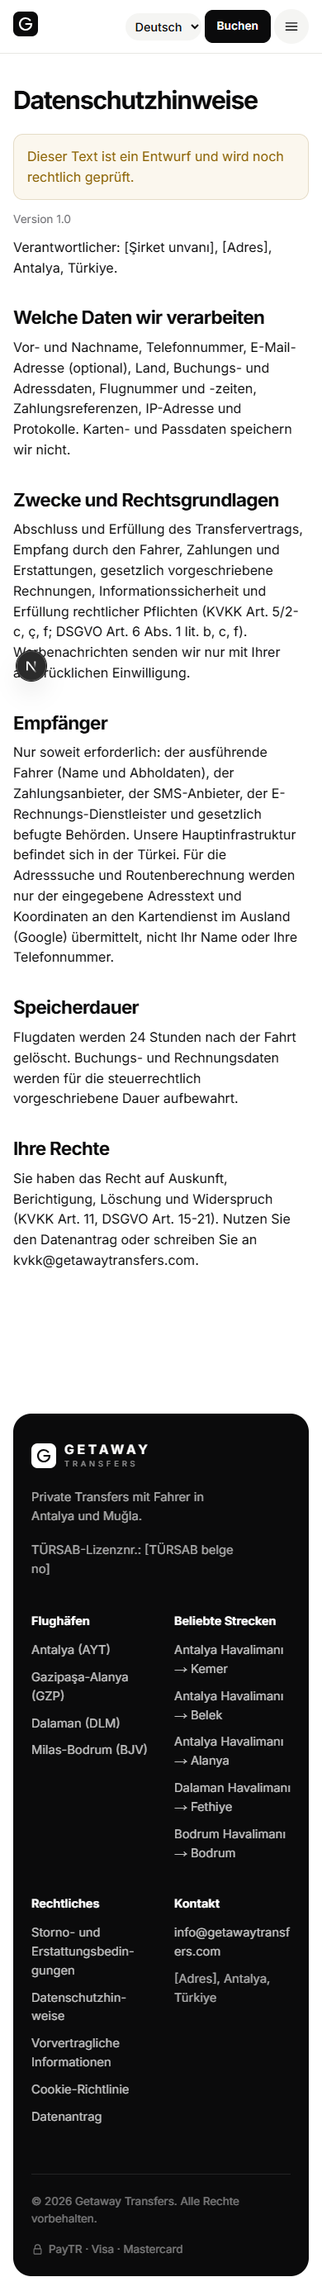
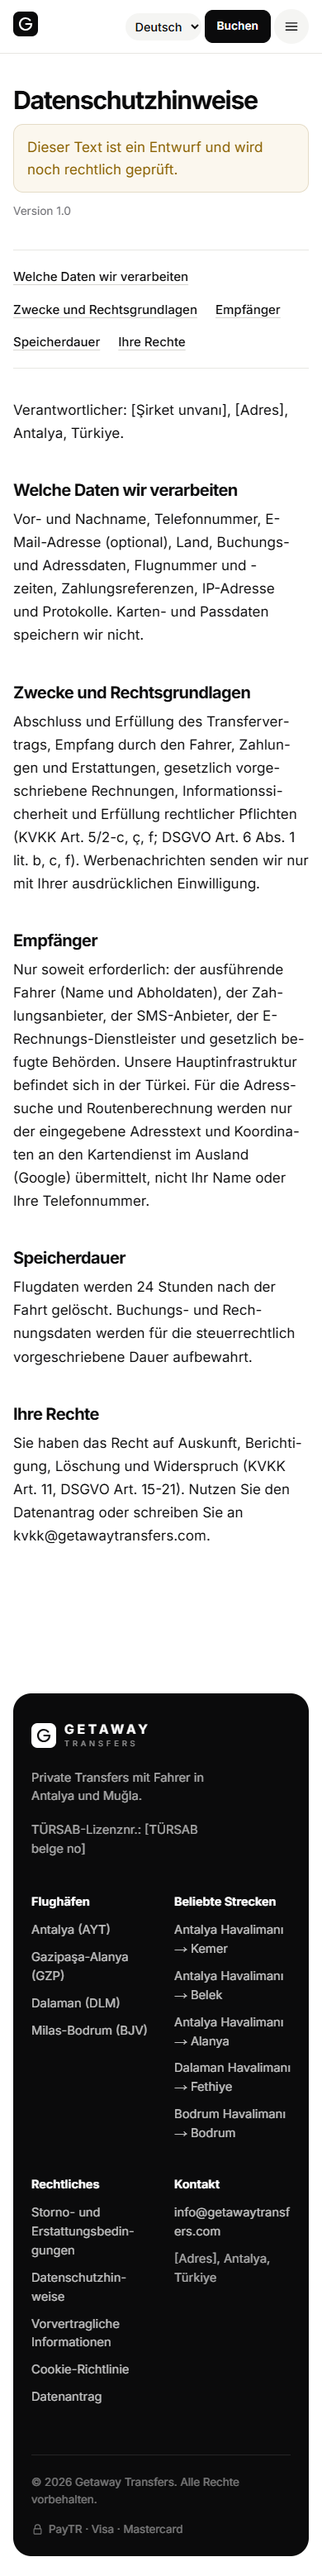
ui(web/legal): impeccable pass - e2e testleri, raporlar ve görüntüler (B-W11-15)
web/e2e/legal.spec.ts (axe, taslak notu, içerik değişmedi, 65-75ch, K-14 kademeleri,
içindekiler, baskı, 360-1440 px Almanca); docs/ui-review/web-legal.md ve
web-not-found.md, durum tabloları, değişiklik günlüğü, açık konular, test senaryoları;
after/ görüntüleri.

Changed region(s): [[0.0308, 0.0, 0.9846, 0.8974], [0.0615, 0.8356, 0.9231, 1.0], [0.8923, 0.0, 0.9231, 0.0309]]

diff --git a/web/e2e/legal.spec.ts b/web/e2e/legal.spec.ts
@@ -1,0 +1,150 @@
+import { expect, test, type Page } from "@playwright/test";
+import tr from "../messages/tr.json";
+import { company } from "../lib/site";
+import { expectNoAxeViolations } from "./a11y";
+import { warmUp } from "./session";
+
+// Yasal sayfalar (B-W11…B-W14): tek dinamik rota `legal/[slug]`. Yalnızca tipografi, okunurluk ve düzen değişir;
+// metin anahtarları ve içerik değişmez (bu dosyadaki içerik testleri bunu korur). Boş ve hata durumu yok (statik sayfa).
+
+test.describe.configure({ timeout: 60_000 });
+test.beforeAll(async ({ browser }, info) =>
+  warmUp(browser, info, [
+    "/tr/legal/cancellation",
+    "/tr/legal/privacy",
+    "/tr/legal/distance-sales",
+    "/tr/legal/cookies",
+    "/de/legal/privacy",
+  ]),
+);
+
+type Legal = typeof tr.legal;
+const PAGES = [
+  { slug: "cancellation", name: "legal cancellation", key: "cancellation", keys: ["intro", "tier1", "tier2", "tier3", "guarantee", "process", "noShow", "howTo"] },
+  {
+    slug: "privacy",
+    name: "legal privacy",
+    key: "privacy",
+    keys: ["controller", "dataTitle", "data", "purposeTitle", "purpose", "transferTitle", "transfer", "retentionTitle", "retention", "rightsTitle", "rights"],
+  },
+  { slug: "distance-sales", name: "legal distance sales", key: "distanceSales", keys: ["seller", "service", "price", "performance", "withdrawal", "complaints"] },
+  { slug: "cookies", name: "legal cookies", key: "cookies", keys: ["text", "list"] },
+] as const;
+
+/** Mesajı sayfanın kullandığı değerlerle doldurur (ICU yer tutucuları). */
+function expected(slug: string, key: keyof Legal, k: string): string {
+  const values: Record<string, string> = {
+    company: company.legalName,
+    address: company.address,
+    email: slug === "privacy" ? company.kvkkEmail : company.email,
+    tursab: company.tursabNo,
+  };
+  const raw = (tr.legal[key] as Record<string, string>)[k];
+  return raw.replace(/\{(\w+)\}/g, (_, v: string) => values[v]);
+}
+
+/** Yasal içerik (başlık, paragraf, liste öğesi); taslak notu, sürüm satırı ve içindekiler hariç. */
+const content = (page: Page) =>
+  page.locator("article.legal").locator(":is(h2, p, li):not(.alert):not(.hint):not(nav *)");
+
+for (const p of PAGES) {
+  test(`${p.name} has no axe violations`, async ({ page }) => {
+    await page.goto(`/tr/legal/${p.slug}`);
+    await expect(page.getByRole("heading", { level: 1 })).toHaveText(tr.legal[p.key].title);
+    await expectNoAxeViolations(page);
+  });
+
+  test(`${p.name} draft notice visible`, async ({ page }) => {
+    await page.goto(`/tr/legal/${p.slug}`);
+    const notice = page.locator("article.legal").getByText(tr.legal.draft, { exact: true });
+    await expect(notice).toBeVisible();
+    // Not, içerikten önce gelir (okuyan önce taslak olduğunu görür).
+    const before = await notice.evaluate((n) => {
+      const first = document.querySelector("article.legal :is(h2, p, li):not(.alert):not(.hint):not(nav *)");
+      return !!first && !!(n.compareDocumentPosition(first) & Node.DOCUMENT_POSITION_FOLLOWING);
+    });
+    expect(before).toBe(true);
+  });
+
+  test(`${p.name} content unchanged`, async ({ page }) => {
+    await page.goto(`/tr/legal/${p.slug}`);
+    const texts = (await content(page).allTextContents()).map((s) => s.trim());
+    expect(texts).toEqual(p.keys.map((k) => expected(p.slug, p.key, k)));
+  });
+
+  test(`${p.name} reading measure is 65-75ch`, async ({ page }, info) => {
+    test.skip(info.project.name !== "desktop", "Ölçü yalnızca geniş ekranda sınırlanır; telefonda ekran genişliği belirler");
+    await page.goto(`/tr/legal/${p.slug}`);
+    const ch = await content(page).first().evaluate((el) => {
+      const probe = document.createElement("span");
+      probe.textContent = "0".repeat(100);
+      probe.style.whiteSpace = "nowrap";
+      el.appendChild(probe);
+      const one = probe.getBoundingClientRect().width / 100;
+      probe.remove();
+      return el.getBoundingClientRect().width / one;
+    });
+    expect(ch).toBeGreaterThanOrEqual(65);
+    expect(ch).toBeLessThanOrEqual(75);
+  });
+}
+
+test("tiers text matches K-14 exactly", async ({ page }) => {
+  await page.goto("/tr/legal/cancellation");
+  // Üç kademe ayrı bir liste olarak okunur; metin mesajlarla birebir ve sıra değişmez.
+  const list = page.locator("article.legal").getByRole("list");
+  await expect(list).toHaveCount(1);
+  const items = list.getByRole("listitem");
+  await expect(items).toHaveText([tr.legal.cancellation.tier1, tr.legal.cancellation.tier2, tr.legal.cancellation.tier3]);
+  // K-14: 48 saat ve üzeri %100, 24–48 saat %50, 24 saatten az iade yok (%0).
+  await expect(items.nth(0)).toContainText("48 saat");
+  await expect(items.nth(0)).toContainText("%100");
+  await expect(items.nth(1)).toContainText("24 ile 48 saat");
+  await expect(items.nth(1)).toContainText("%50");
+  await expect(items.nth(2)).toContainText("24 saatten az");
+  await expect(items.nth(2)).toContainText("iade yapılmaz");
+});
+
+test("privacy has a section index with working anchors", async ({ page }) => {
+  await page.goto("/tr/legal/privacy");
+  const toc = page.getByRole("navigation", { name: tr.legal.privacy.title });
+  await expect(toc).toBeVisible();
+  const titles = ["dataTitle", "purposeTitle", "transferTitle", "retentionTitle", "rightsTitle"] as const;
+  await expect(toc.getByRole("link")).toHaveText(titles.map((k) => tr.legal.privacy[k]));
+  await toc.getByRole("link", { name: tr.legal.privacy.retentionTitle }).click();
+  await expect(page).toHaveURL(/#retention$/);
+  const heading = page.getByRole("heading", { level: 2, name: tr.legal.privacy.retentionTitle });
+  await expect(heading).toBeInViewport();
+  // Yapışkan üst bilginin altında kalmaz.
+  const [top, headerBottom] = await Promise.all([
+    heading.evaluate((h) => h.getBoundingClientRect().top),
+    page.locator(".header").evaluate((h) => h.getBoundingClientRect().bottom),
+  ]);
+  expect(top).toBeGreaterThanOrEqual(headerBottom);
+});
+
+test("legal page prints without site chrome", async ({ page }) => {
+  await page.goto("/tr/legal/privacy");
+  await page.emulateMedia({ media: "print" });
+  await expect(page.locator(".header")).toBeHidden();
+  await expect(page.locator("footer.footer")).toBeHidden();
+  await expect(page.getByRole("navigation", { name: tr.legal.privacy.title })).toBeHidden();
+  await expect(page.locator("article.legal").getByText(tr.legal.draft, { exact: true })).toBeVisible();
+  await expect(page.getByRole("heading", { level: 1 })).toBeVisible();
+});
+
+test("legal pages do not overflow at 360-1440 px in German", async ({ page }, info) => {
+  test.skip(info.project.name !== "desktop", "Genişlikler testte ayarlanır");
+  test.setTimeout(120_000);
+  for (const width of [360, 390, 768, 1024, 1440]) {
+    await page.setViewportSize({ width, height: 900 });
+    for (const p of PAGES) {
+      await page.goto(`/de/legal/${p.slug}`);
+      const { scrollWidth, innerWidth } = await page.evaluate(() => ({
+        scrollWidth: document.documentElement.scrollWidth,
+        innerWidth: window.innerWidth,
+      }));
+      expect(scrollWidth, `${p.slug} ${width}px`).toBeLessThanOrEqual(innerWidth);
+    }
+  }
+});

diff --git a/docs/ui-review/web-legal.md b/docs/ui-review/web-legal.md
@@ -1,0 +1,83 @@
+# Web yasal sayfalar (`/legal/cancellation`, `/legal/privacy`, `/legal/distance-sales`, `/legal/cookies`): Impeccable geçişi (B-W11 … B-W14)
+
+Tarih: 2026-11-03 · Dal: `ui/impeccable-pass` · Mod: **Read** · North Star: "Kıyı Yolu" (`DESIGN.md`)
+Yöntem: ⚠ DEGRADED: single-context (görev kuralı alt ajan açmayı yasaklıyor; Assessment A önce, detector kanıtı B sonra). Impeccable adımları in-thread pass; soru sorulmadı, kararlar aşağıda.
+Kapsam: dört sayfa tek dinamik rotadır (`web/app/[locale]/legal/[slug]/page.tsx`). Görev kuralı gereği yalnızca tipografi, okunurluk ve düzen değişti. **Metin anahtarları, metin, sıra ve yasal içerik değişmedi**; yeni mesaj anahtarı eklenmedi. Taslak notu ("Bu metin taslaktır ve hukuki onay bekliyor.") her sayfada içerikten önce görünür kalır.
+
+## Puanlar (sayfa başına)
+
+Read modunda uygulanamayan sezgiseller `n/a`, toplam uygulanabilir azamîye göre: 5 (hata önleme: giriş yok) ve 9 (hata kurtarma: hata durumu yok) her sayfada `n/a`; 7 (esneklik) yalnızca bölümlü uzun metinde (KVKK) puanlanır.
+
+| Sayfa | critique önce | critique sonra | axe önce | axe sonra | detector |
+|---|---|---|---|---|---|
+| `/legal/cancellation` (B-W11) | 20/28 (%71) | 24/28 (%86) | 0 | 0 | 0 |
+| `/legal/privacy` (B-W12) | 20/32 (%63) | 28/32 (%88) | 0 | 0 | 0 |
+| `/legal/distance-sales` (B-W13) | 20/28 (%71) | 23/28 (%82) | 0 | 0 | 0 |
+| `/legal/cookies` (B-W14) | 21/28 (%75) | 23/28 (%82) | 0 | 0 | 0 |
+
+audit (dört sayfa ortak): önce 15/20, sonra 18/20 (erişilebilirlik 3→4: içindekiler `nav`, kademeler `ul`, makale başlığa bağlı; tema 3→4: yalnızca tokenlar ve mantıksal özellikler; duyarlılık 3→4: 360–1440 px Almanca taşma yok, `hyphens: auto`; performans 4→4: sunucu bileşeni, istemci JS yok; uygulama bütünlüğü 2→2: başlıksız uzun metinler, "son güncelleme" tarihi verisi yok).
+
+### critique ayrıntısı (önce → sonra)
+
+| # | Sezgisel | İptal | KVKK | Mesafeli satış | Çerez | Not |
+|---|---|---|---|---|---|---|
+| 1 | Sistem durumu | 3→3 | 3→3 | 3→3 | 3→3 | Sürüm satırı ve taslak notu var; "son güncelleme" tarihi verisi yok (uydurulmadı) |
+| 2 | Gerçek dünya | 3→3 | 3→3 | 3→3 | 3→3 | Metin değişmez |
+| 3 | Kullanıcı kontrolü | 3→3 | 2→4 | 3→3 | 3→3 | KVKK: bölüme atlama ve geri dönme (çapa + tarayıcı geri) |
+| 4 | Tutarlılık | 3→4 | 3→4 | 3→4 | 3→4 | Dört sayfa aynı başlık bloğu, ölçü ve ritim; baskı düzeni |
+| 5 | Hata önleme | n/a | n/a | n/a | n/a | Giriş yok |
+| 6 | Tanıma | 2→4 | 2→4 | 2→3 | 3→3 | İptal: kademeler ayrı liste; KVKK: içindekiler; mesafeli satış: başlıksız metin (etiketler cümle içinde, metne dokunulmaz) |
+| 7 | Esneklik | n/a | 1→3 | n/a | n/a | KVKK: içindekiler + çapalar; kısa sayfalarda uygulanamaz |
+| 8 | Estetik ve sadelik | 3→4 | 3→4 | 3→4 | 3→4 | Başlık bloğu sıkı, gövde 70ch ve 1.65 satır aralığı, başlık üstü boşluğu altından açık |
+| 9 | Hata kurtarma | n/a | n/a | n/a | n/a | Hata durumu yok |
+| 10 | Yardım | 3→3 | 3→3 | 3→3 | 3→3 | İletişim e-postası metinde |
+| **Toplam** | | **20→24/28** | **20→28/32** | **20→23/28** | **21→23/28** | |
+
+KVKK toplamı: önce 20/32 (%63), sonra 28/32 (%88).
+
+## Bulgular ve durum
+
+| Öncelik | Sayfa | Bulgu | Durum |
+|---|---|---|---|
+| P1 | İptal | K-14 kademeleri diğer paragraflarla aynı görünüyor; okuyan "48 saat / 24 saat" sınırlarını taramada kaçırır | **Kapandı**: `tier1`–`tier3` tek bir `ul.legal-tiers` içinde (kireçtaşı blok, saç çizgisi ayırıcı, tabular rakam). Metin ve sıra aynı. Test: "tiers text matches K-14 exactly" |
+| P1 | KVKK | Beş bölümlü metinde içindekiler ve bölüme bağlantı yok | **Kapandı**: mevcut bölüm başlıklarından kurulan `nav` (adı sayfa başlığı; üst bilgideki "Bölümler" menüsüyle aynı adı taşımaz), `#data` … `#rights` çapaları, yapışkan üst bilgi payı (`scroll-margin-block-start`). Test: "privacy has a section index with working anchors" |
+| P2 | Tümü | Satır uzunluğu ölçülmemiş (780 px kapsayıcıya bağlı; 16 px'te ~70ch tesadüfen) | **Kapandı**: kapsayıcı `calc(70ch + 2 * gutter)`, gövde 1.0625rem / 1.65, öğeler `max-inline-size: 70ch`. Test: "… reading measure is 65-75ch" (dört sayfa) |
+| P2 | Tümü | Baskıda üst bilgi, alt bilgi ve renkli not; yasal metin yazdırılıyor/PDF'e kaydediliyor | **Kapandı**: `@media print` üst/alt bilgi ve içindekiler gizli, taslak notu kenarlı ve görünür, başlık sonrası sayfa kırılmaz. Test: "legal page prints without site chrome" |
+| P2 | Tümü | Başlık, not ve sürüm satırı ayrı ayrı yüzüyor; başlık üstü/altı boşluğu eşit | **Kapandı**: `.legal-head` 12 px yığın, gövdeye 36 px; `h2` 2.2em üst / 0.5em alt, `text-wrap: balance`, paragraf `text-wrap: pretty` |
+| P3 | Mesafeli satış | Bölüm başlığı yok; "Satıcı:", "Hizmet:" gibi etiketler cümlenin içinde | Açık: metin ve anahtar yapısı değişmez (hukukçu onaylı metin bölümlenirse başlık eklenebilir) |
+| P3 | Tümü | "Son güncelleme" tarihi yok, yalnızca "Sürüm 1.0" | Açık: tarih verisi yok, uydurulmadı |
+| P3 | Tümü | `hyphens: auto` Almancada kısaltmayı da böler ("TÜR-SAB") | Kabul: dar ekranda taşmayı önler; yasal metin değişmez |
+| P3 | İptal | Görevdeki "%0" ifadesi metinde yok; `tier3` "iade yapılmaz" diyor (anlamca %0) | Açık: metin değiştirilmez; test mesajdaki birebir metni ve "24 saatten az" + "iade yapılmaz"ı denetler |
+
+Kararlar: içindekiler yalnızca üç ve daha fazla bölüm başlığı olan metinde çizilir (bugün yalnızca KVKK); yeni anahtar gerekmesin diye adı sayfa başlığından (`aria-labelledby`) gelir. Kademe listesinde renkli kenar şeridi kullanılmadı (craft floor yasağı); durum renkleri kullanılmadı (kademe bir durum değil).
+
+## Yapılanlar (Impeccable adımları)
+
+- **typeset / layout**: ölçü, gövde boyutu, satır aralığı, başlık ritmi, başlık bloğu; kademeler listesi; içindekiler.
+- **harden**: uzun Almanca (360–1440 px testte taşma yok), `overflow-wrap`, `hyphens`; mantıksal özellikler (`margin-block`, `padding-block`, `border-block`, `max-inline-size`, `scroll-margin-block-start`): Arapça (C-W1) için yön sabit kodlanmadı. Boş ve hata durumu: `n/a` (statik sunucu sayfası, ağ çağrısı yok; bilinmeyen slug 404'e gider, `web-not-found.md`).
+- **adapt**: 360/390/768/1024/1440 px; telefonda içindekiler satır kayar, dokunma hedefi ≥ 34 px.
+- **clarify**: yapılmadı (yasal metin; görev kuralı).
+- **optimize**: sunucu bileşeni, istemci JS yok, görsel yok.
+- **animate/delight**: eklenmedi (Read, yasal metin).
+- **polish**: baskı stili, bağlantı alt çizgi rengi ve ofseti.
+
+## Değişen dosyalar
+
+`web/app/[locale]/legal/[slug]/page.tsx`, `web/app/globals.css` (`.legal`, `.legal-head`, `.legal-body`, `.legal-toc`, `.legal-tiers`, `@media print`), `web/e2e/legal.spec.ts` (yeni, 20 test; iki projede 40 koşu).
+
+## Uygulanamadı: neden
+
+- Metin içi bağlantılar (mesafeli satıştan iptal politikasına, KVKK'dan veri talep formuna): mesaj metni değişmeden yapılamaz.
+- "Son güncelleme" tarihi: veri yok.
+- `ar` (sağdan sola) görüntüsü: dil C-W1'de eklenecek; düzen yalnızca mantıksal özellik kullanır.
+
+## Doğrulama
+
+- Kırmızı (önce, `npx playwright test legal.spec not-found.spec --project=desktop --workers=1`): **7 başarısız, 20 geçti**. Yasal sayfalarda başarısız: "tiers text matches K-14 exactly" (`toHaveCount(1)`: liste yoktu), "privacy has a section index with working anchors" (`toBeVisible`: `nav` yoktu), "legal page prints without site chrome" (`toBeHidden`: üst bilgi baskıda görünüyordu). Önce de geçenler (koruma testleri): axe ×4, taslak notu ×4, içerik değişmedi ×4, ölçü ×4 (16 px Inter'de 780 px kapsayıcı tesadüfen 70ch idi; 17 px gövdeye geçince ilk denemede 65'in altına düştü ve kapsayıcı ch'ye bağlandı), Almanca taşma.
+- Sonra: `npx playwright test legal.spec not-found.spec --workers=1` (iki proje): **48 geçti, 6 atlandı** (ölçü ve taşma testleri yalnızca desktop).
+- `npx tsc --noEmit` temiz; `npx eslint` (sayfa + spec) 0; `impeccable detect` `[]`.
+
+## Görüntüler
+
+- Önce: `screenshots/before/web/{tr,de}-{1440,390}-legal-{cancellation,privacy,distance-sales,cookies}.png`
+- Sonra: `screenshots/after/web/{tr,de}-{1440,390}-legal-{cancellation,privacy,distance-sales,cookies}.png`

diff --git a/README.md b/README.md
@@ -79,10 +79,10 @@ Tek yerden özet: `docs/proje_rehberi.md`. Değişiklik kaydı: `docs/degisiklik
 | Alan | Durum |
 |---|---|
 | Backend | Tamamlandı; 94 test geçiyor. Kur TCMB'den otomatik, gidiş-dönüş %5, fiyatlar 5'in katı. Adres (Google Places, şimdilik örnek veri), ilçe bazlı fiyat (K-28), PayTR (test mağazası bekliyor) |
-| Müşteri web sitesi | Tamamlandı; 4 dil, adres arama, rezervasyon, ödeme, iptal, KVKK sayfaları, mobil uyumlu. 2026-10-31: yeni tasarım, Motion/Lenis animasyonları, 4 araçlı filo (VIP Minibüs, K-35). 2026-11-02: ana sayfa Impeccable geçişi (rota rayı "Nasıl çalışır", koyu güven şeridi, JS'siz/hareket azaltmada görünür bölümler, axe 0); rezervasyon sihirbazı geçişi (adım göstergesi yolda değişmez, alan düzeyi hatalar, ağ hatasında yeniden dene, onayda iptal kademeleri, axe 0); SMS doğrulama geçişi (duyurulan hatalar, alan adında ülke kodu, tekrar gönder sayacı, axe 0); ödeme ekranı geçişi (yükleniyor/hata/yeniden dene durumları, duyurulan ödeme reddi, kod-güzergâh-tarih özeti, açık ödemede tekrar dene yok, iptal edilmiş rezervasyon açıklaması, axe 0); rezervasyon detayı ve iptal geçişi (yükleniyor/hata/bulunamadı durumları, API'nin iade önizlemesi + K-14 kademeleri, eşit görünür "Vazgeç", klavyeyle iptal ve duyurulan sonuç, eskiyen canlı konum canlı gösterilmez (K-44), axe 0). 2026-11-03: yüzey 1 incelemesi düzeltmeleri (ağ/5xx/süre aşımında giriş formu yerine hata ve yeniden dene, 15 sn istek sınırı, ortak yoklama, ödeme sayfası açıkken oturum düşerse iFrame korunur ve yeni ödeme açılmaz (K-45), "oturumunuz sona erdi" notu); Rezervasyonlarım geçişi (kod alanında biçim ipucu ve alan hatası, boş liste durumu, axe 0); Hesabım geçişi (yükleniyor/hata durumları, kaydedilemeyen pazarlama onayı işaretli kalmaz, duyurulan kayıt, axe 0); veri talebi geçişi (önceden seçimsiz tür radyo grubu, gönderim kilidi, liste yükleniyor/hata/boş durumları, axe 0) |
+| Müşteri web sitesi | Tamamlandı; 4 dil, adres arama, rezervasyon, ödeme, iptal, KVKK sayfaları, mobil uyumlu. 2026-10-31: yeni tasarım, Motion/Lenis animasyonları, 4 araçlı filo (VIP Minibüs, K-35). 2026-11-02: ana sayfa Impeccable geçişi (rota rayı "Nasıl çalışır", koyu güven şeridi, JS'siz/hareket azaltmada görünür bölümler, axe 0); rezervasyon sihirbazı geçişi (adım göstergesi yolda değişmez, alan düzeyi hatalar, ağ hatasında yeniden dene, onayda iptal kademeleri, axe 0); SMS doğrulama geçişi (duyurulan hatalar, alan adında ülke kodu, tekrar gönder sayacı, axe 0); ödeme ekranı geçişi (yükleniyor/hata/yeniden dene durumları, duyurulan ödeme reddi, kod-güzergâh-tarih özeti, açık ödemede tekrar dene yok, iptal edilmiş rezervasyon açıklaması, axe 0); rezervasyon detayı ve iptal geçişi (yükleniyor/hata/bulunamadı durumları, API'nin iade önizlemesi + K-14 kademeleri, eşit görünür "Vazgeç", klavyeyle iptal ve duyurulan sonuç, eskiyen canlı konum canlı gösterilmez (K-44), axe 0). 2026-11-03: yüzey 1 incelemesi düzeltmeleri (ağ/5xx/süre aşımında giriş formu yerine hata ve yeniden dene, 15 sn istek sınırı, ortak yoklama, ödeme sayfası açıkken oturum düşerse iFrame korunur ve yeni ödeme açılmaz (K-45), "oturumunuz sona erdi" notu); Rezervasyonlarım geçişi (kod alanında biçim ipucu ve alan hatası, boş liste durumu, axe 0); Hesabım geçişi (yükleniyor/hata durumları, kaydedilemeyen pazarlama onayı işaretli kalmaz, duyurulan kayıt, axe 0); veri talebi geçişi (önceden seçimsiz tür radyo grubu, gönderim kilidi, liste yükleniyor/hata/boş durumları, axe 0); yasal sayfalar geçişi (70ch okuma ölçüsü, iptal kademeleri ayrı liste, KVKK metninde içindekiler, baskı stili; metin değişmedi, axe 0); 404 geçişi (Rezervasyonlarım bağlantısı, kendi sekme başlığı, axe 0) |
 | Admin paneli | Tamamlandı; 23 rota (ekran), 2FA, rol bazlı menü, parola değiştirme |
 | Mobil (müşteri + sürücü) | Tamamlandı; 2026-10-31 Uber tarzı yeni tasarım (Reanimated). Harita: telefonda `react-native-maps` gerçek harita (rezervasyon detayı ve sürücü yolculuğunda rota ve sürücü işaretçisi; Android emülatörde doğrulandı), web önizlemede SVG. Push bildirim (FCM) ve mağaza derlemesi bekliyor |
-| Ön yüz testleri | Altyapı kuruldu (K-40): web ve admin ESLint + Playwright + axe (smoke), mobil ESLint + jest-expo + RNTL, kök betik testleri, ekran görüntüsü betikleri. Lint taban ihlalleri kısmen giderildi (web 4); ekran bazlı testler arayüz taramasında yazılıyor (web ortak dosyalar B-W0: `web/e2e/shared.spec.ts`, yerel 404, odak halkası, durum bileşenleri; ana sayfa B-W1: `web/e2e/home.spec.ts`, axe 0, klavye, hareket azaltma, 360 px Almanca; rezervasyon sihirbazı B-W2: `web/e2e/book.spec.ts`, dört adımda axe 0, onay kutuları, uçuş no hatası, TRY tek satır, ağ hatası; SMS doğrulama B-W3: `web/e2e/otp.spec.ts`, yanlış kod, tekrar gönder sayacı, ülke kodu; ödeme B-W4: `web/e2e/pay.spec.ts`, yükleniyor, ödeme reddi, ağ hatası, axe 0, 360 px Almanca; ödeme sonucu B-W5: `web/e2e/payment-result.spec.ts`, bekleme durumu, iFrame'den çıkış, axe 0, 360 px Almanca; rezervasyon detayı B-W6: `web/e2e/booking-detail.spec.ts`, iptal önizlemesi, klavye, bulunamadı, canlı takip eskimesi, axe 0, 360 px Almanca) |
+| Ön yüz testleri | Altyapı kuruldu (K-40): web ve admin ESLint + Playwright + axe (smoke), mobil ESLint + jest-expo + RNTL, kök betik testleri, ekran görüntüsü betikleri. Lint taban ihlalleri kısmen giderildi (web 4); ekran bazlı testler arayüz taramasında yazılıyor (web ortak dosyalar B-W0: `web/e2e/shared.spec.ts`, yerel 404, odak halkası, durum bileşenleri; ana sayfa B-W1: `web/e2e/home.spec.ts`, axe 0, klavye, hareket azaltma, 360 px Almanca; rezervasyon sihirbazı B-W2: `web/e2e/book.spec.ts`, dört adımda axe 0, onay kutuları, uçuş no hatası, TRY tek satır, ağ hatası; SMS doğrulama B-W3: `web/e2e/otp.spec.ts`, yanlış kod, tekrar gönder sayacı, ülke kodu; ödeme B-W4: `web/e2e/pay.spec.ts`, yükleniyor, ödeme reddi, ağ hatası, axe 0, 360 px Almanca; ödeme sonucu B-W5: `web/e2e/payment-result.spec.ts`, bekleme durumu, iFrame'den çıkış, axe 0, 360 px Almanca; rezervasyon detayı B-W6: `web/e2e/booking-detail.spec.ts`, iptal önizlemesi, klavye, bulunamadı, canlı takip eskimesi, axe 0, 360 px Almanca; yasal sayfalar B-W11–14: `web/e2e/legal.spec.ts`, K-14 kademeleri birebir, içerik değişmedi, taslak notu, 65–75ch, içindekiler, baskı; 404 B-W15: `web/e2e/not-found.spec.ts`) |
 | Yasal metinler | Taslak; hukukçu onayı bekliyor (`web/lib/site.ts` içinde yer tutucular) |
 
 Araç tipleri: Minivan, VIP Van, Minibüs, VIP Minibüs (K-35). Sedan hizmetten kaldırıldı.

diff --git a/docs/ui-review/README.md b/docs/ui-review/README.md
@@ -110,6 +110,11 @@ Ortak dosya görevlerinde (`*0`) critique puanı verilmez; yalnızca detector, a
 | web/bookings (B-W8: `/bookings`, `BookingsHome`) | critique 22/40 (%55), audit 14/20, axe 0 | critique 35/40 (%88), audit 18/20, axe 0 (oturumsuz + alan hatası, liste, boş liste) | 0 | Tamamlandı (2026-11-03): kod alanında görünür biçim ipucu ve örnekli alan hatası (devre dışı düğme yerine; gönderimde odak alana), yapıştırılan "GA7K-3P9Q" temizlenir, boş liste `EmptyState` + "Yeni rezervasyon", liste `h2` + `ul`, telefonda tam genişlik düğme. `bookings.spec.ts` 8 test (360–1440 Almanca + `12.345,00 TRY` taşma yok). Açık P3: sayfalama yok (API) | `web-bookings.md`; görüntüler `screenshots/after/web/*-{bookings-anon,bookings-list}.png` |
 | web/account (B-W9: `/account`, `AccountPanel`) | critique 22/40 (%55), audit 13/20, axe 0 | critique 34/40 (%85; düzeltme turu 1), audit 18/20, axe 0 | 0 | Tamamlandı (2026-11-03; düzeltme turu 1: görünür "Kaydediliyor…" ve meşgul kutu, istemcide e-posta alan hatası): profil yüklenirken `LoadingState` (önce boş), ağ hatasında `ErrorState` + yeniden dene, onay listesi hatasında kartta hata (kutu "işaretsiz" gösterilmez), kaydedilemeyen pazarlama onayı işaretli kalmaz ve hatası onay kartında, profil ve onay kaydı `role="status"` ile duyurulur, kayıt kilidi, salt okunur telefon. KVKK: kutu önceden işaretsiz (test). `account.spec.ts` 9 test (360–1440 Almanca + 120 karakter ad). Açık P3 yok | `web-account.md`; görüntüler `screenshots/after/web/*-{account,account-anon}.png` |
 | web/data-request (B-W10: `/data-request`, `DataRequestPanel`) | critique 21/40 (%53), audit 13/20, axe 0 | critique 34/40 (%85; düzeltme turu 1), audit 18/20, axe 0 (alan hatası + liste + silme onayı) | 0 | Tamamlandı (2026-11-03; düzeltme turu 1: silme talebinde satır içi onay ve eşit görünür "Vazgeç", yeni talebe başlayınca sonuç mesajı kalkar): talep türü `select` yerine önceden seçimsiz radyo grubu (`fieldset`/`legend`) ve seçmeden gönderimde alan hatası, gönderim kilidi ("Gönderiliyor…"), duyurulan "Talebiniz alındı. Son tarih: …", "Taleplerim" bölümünde yükleniyor/hata + yeniden dene/boş durumları (liste hatası artık yutulmuyor), renkli durum rozeti, not alanında kalan karakter. `data-request.spec.ts` 7 test (360–1440 Almanca). Yasal metin değişmedi. Açık P3: hak açıklamaları (hukukçu onayı) | `web-data-request.md`; görüntüler `screenshots/after/web/*-{data-request,data-request-anon}.png` |
+| web/legal/cancellation (B-W11) | critique 20/28 (%71; 5, 7, 9 n/a), axe 0 | critique 24/28 (%86), audit 18/20 (dört yasal sayfa ortak), axe 0 | 0 | Tamamlandı (2026-11-03): K-14 kademeleri ayrı liste (metin ve sıra aynı), ortak okuma düzeni (70ch, 1.0625rem/1.65, başlık bloğu, baskı stili). `legal.spec.ts` | `web-legal.md`; görüntüler `screenshots/after/web/*-legal-cancellation.png` |
+| web/legal/privacy (B-W12) | critique 20/32 (%63; 5, 9 n/a), axe 0 | critique 28/32 (%88), axe 0 | 0 | Tamamlandı (2026-11-03): mevcut başlıklardan içindekiler (`nav`, adı sayfa başlığı) ve `#data`…`#rights` çapaları, ortak okuma düzeni; içerik değişmedi | `web-legal.md`; `*-legal-privacy.png` |
+| web/legal/distance-sales (B-W13) | critique 20/28 (%71), axe 0 | critique 23/28 (%82), axe 0 | 0 | Tamamlandı (2026-11-03): ortak okuma düzeni. Açık P3: başlıksız metin (etiketler cümle içinde; metin değişmez) | `web-legal.md`; `*-legal-distance-sales.png` |
+| web/legal/cookies (B-W14) | critique 21/28 (%75), axe 0 | critique 23/28 (%82), axe 0 | 0 | Tamamlandı (2026-11-03): ortak okuma düzeni | `web-legal.md`; `*-legal-cookies.png` |
+| web/not-found (B-W15: `app/[locale]/not-found.tsx`) | critique 22/36 (%61; 5 n/a), audit 16/20, axe 0 | critique 30/36 (%83), audit 18/20, axe 0 (iki giriş yolu) | 0 | Tamamlandı (2026-11-03): **Rezervasyonlarım** bağlantısı eklendi (ana sayfa birincil, rezervasyon), sekme başlığı "404 \| Getaway Transfers" (React 19 `<title>`; `metadata` not-found'da uygulanmıyor). `not-found.spec.ts` 7 test. Açık P2: üretim 404 kabuğu (B-W0'dan) | `web-not-found.md`; `*-{not-found,not-found-in-locale}.png` |
 
 ## 5. Yüzey 1 kapanışı (web gelir akışı, 2026-11-03)
 

diff --git a/docs/ui-review/web-not-found.md b/docs/ui-review/web-not-found.md
@@ -1,0 +1,60 @@
+# Web bulunamadı (404, `app/[locale]/not-found.tsx`): Impeccable geçişi (B-W15)
+
+Tarih: 2026-11-03 · Dal: `ui/impeccable-pass` · Mod: **Operate** (kaybolan ziyaretçiyi yola döndürmek) · North Star: "Kıyı Yolu"
+Yöntem: ⚠ DEGRADED: single-context (görev kuralı alt ajan açmayı yasaklıyor). Impeccable adımları in-thread pass; soru sorulmadı.
+Kapsam: B-W0'da kurulan yerel 404 (`[...rest]` → `notFound()`, `html[lang]`). İki giriş yolu: eşleşmeyen adres (`/tr/bu-sayfa-yok`) ve `notFound()` çağıran rota (`/tr/legal/olmayan`). Rezervasyon koduna özgü bulunamadı ekranı (`BookingNotFound`) B-W6'nındır.
+
+## Puanlar
+
+| Ölçüm | Önce | Sonra |
+|---|---|---|
+| critique (Nielsen; 5 hata önleme `n/a`: giriş yok) | **22/36 (%61)** | **30/36 (%83)** |
+| audit | 16/20 | 18/20 |
+| axe (iki giriş yolu) | 0 | **0** |
+| detector (`not-found.tsx`) | 0 | 0 |
+| lint | 0 | 0 |
+
+| # | Sezgisel | Önce | Sonra | Not |
+|---|---|---|---|---|
+| 1 | Sistem durumu | 2 | 4 | Sekme başlığı ana sayfanınkiydi ("Getaway Transfers \| Antalya ve Muğla VIP Transfer"); şimdi "404 \| Getaway Transfers" |
+| 2 | Gerçek dünya | 3 | 3 | "Aradığınız sayfa bulunamadı. Adres değişmiş ya da kaldırılmış olabilir." |
+| 3 | Kullanıcı kontrolü | 2 | 4 | Rezervasyonuna ulaşmak isteyen için yol yoktu; şimdi **Rezervasyonlarım** |
+| 4 | Tutarlılık | 3 | 3 | Site düzeni, tek birincil (lake siyah) eylem |
+| 5 | Hata önleme | n/a | n/a | Giriş yok |
+| 6 | Tanıma | 3 | 4 | Üç olası hedef görünür |
+| 7 | Esneklik | 2 | 3 | Üst bilgi menüsü + üç eylem |
+| 8 | Estetik | 3 | 3 | Değişmedi; 360 px'te düğmeler satır kayar |
+| 9 | Hata kurtarma | 2 | 3 | Ana sayfa, rezervasyonlar, yeni rezervasyon |
+| 10 | Yardım | 2 | 3 | Alt bilgide iletişim; sayfada ayrıca yardım metni yok (yeni metin eklenmedi) |
+| **Toplam** | | **22/36** | **30/36** | |
+
+## Bulgular ve durum
+
+| Öncelik | Bulgu | Durum |
+|---|---|---|
+| P1 | Kaybolan ziyaretçinin en olası hedefi (SMS/e-postadaki eski bağlantıyla gelen müşterinin rezervasyonu) 404'te yoktu | **Kapandı**: **Ana sayfaya dön** (birincil), **Rezervasyonlarım**, **Rezervasyon →**. Test: "404 offers home and bookings links" (iki giriş yolu) |
+| P2 | Sekme ve geçmişte 404 ana sayfa başlığını taşıyordu | **Kapandı**: "404 \| Getaway Transfers". `not-found.tsx`'ten `metadata` dışa aktarımı Next 15.5'te uygulanmadı (denendi, başlık değişmedi); React 19 `<title>` başa taşınır ve `document.title` 404 olur. `head`'de düzenin `<title>`'ı da kalır (ikinci sırada). Test: "404 has its own document title" |
+| P2 | Üretimde sunucu `__next_error__` kabuğu döndürür, 404 içeriği istemcide çizilir | Açık (B-W0'dan, `acik_konular.md`): Next 15 davranışı; bu görevde değişmedi |
+| P3 | `h1` yalnızca "404"; ekran okuyucuda açıklama başlık dışında | Kabul: açıklama hemen sonraki paragraf; `shared.spec.ts` `h1` "404" sözleşmesini korur |
+
+## Yapılanlar
+
+- **harden**: iki giriş yolu (`[...rest]` ve `notFound()`) testte; boş/hata durumu `n/a` (statik ekran, ağ çağrısı yok).
+- **adapt**: 360–1440 px Almanca taşma yok (test); 360 px'te ikincil düğmeler ikinci satıra kayar.
+- **clarify**: yeni metin yok; mevcut `errors.back_home`, `nav.bookings`, `nav.book` kullanıldı (4 dil).
+- **optimize / animate**: gerek yok.
+
+## Değişen dosyalar
+
+`web/app/[locale]/not-found.tsx`, `web/e2e/not-found.spec.ts` (yeni, 7 test).
+
+## Doğrulama
+
+- Kırmızı (önce, desktop): "404 offers home and bookings links" ×2 (`Rezervasyonlarım` bağlantısı yok) ve "404 has its own document title" ×2 (alınan: "Getaway Transfers \| Antalya ve Muğla VIP Transfer") başarısız; axe ×2 ve taşma geçti.
+- Sonra: `npx playwright test not-found.spec shared.spec --workers=1` iki projede 27 geçti, 1 atlandı.
+- `tsc`, `eslint` temiz; detector `[]`.
+
+## Görüntüler
+
+- Önce: `screenshots/before/` yerel 404 öncesi Next'in varsayılan sayfasıdır (B-W0 öncesi); B-W0 sonrası durum `screenshots/after/web/*-not-found.png`'nin önceki sürümündedir (git geçmişi).
+- Sonra: `screenshots/after/web/{tr,de}-{1440,390}-{not-found,not-found-in-locale}.png`

diff --git a/docs/test_senaryolari.md b/docs/test_senaryolari.md
@@ -121,6 +121,8 @@ SMS doğrulama ek kontrolleri (B-W3; `/book` Doğrulama adımı ve oturumsuz `/a
 - Ödeme sayfası açıkken backend durdurulursa (veya istek asılı kalırsa) birkaç saniye sonra "Otomatik güncelleme durdu…" ve **Durumu yenile** görünür; ödeme sayfası kapanmaz.
 - Ödeme sayfası açıkken oturum düşerse (ör. başka sekmede çıkış yapılırsa) ödeme sayfası yerinde kalır; üstünde "Oturumunuz sona erdi. Ödemeyi tamamladıysanız durumu, yeniden giriş yaptıktan sonra görürsünüz." ve **Yeniden giriş yap** çıkar. Basıp giriş yapınca yeni ödeme sayfası açılmaz: "Önceki ödemenizin sonucu denetleniyor…" ve **Ödemeye dön** görünür; ödeme onaylanınca detaya geçilir (K-45). Ödeme sayfası açık değilken oturum düşerse SMS girişi "Oturumunuz sona erdi…" notuyla gelir.
 - Hesabım (B-W9): yeni hesapta "Kampanya ve fırsat iletileri almak istiyorum." kutusu işaretsizdir. İşaretleyince "Tercihiniz kaydedildi. Kampanya iletileri açık.", kaldırınca "… kapalı." görünür; sayfa yenilenince seçim korunur. Backend kapalıyken kutuya basılırsa kutu değişmez ve onay kartında "Tercihiniz kaydedilemedi. …" çıkar. Profil yüklenirken "Hesap bilgileriniz yükleniyor…"; **Kaydet** sırasında "Kaydediliyor…", sonra "Kaydedildi.". Kutuya basınca kayıt sürerken kartta "Kaydediliyor…" görünür, kutu soluklaşır ve ikinci basış bir şey göndermez. E-posta alanına "ad-ornek.com" yazıp **Kaydet** → "E-posta adresini kontrol edin (ör. ad@ornek.com)." ve kayıt gönderilmez.
+- Yasal sayfalar (B-W11–14, `/tr/legal/cancellation`, `privacy`, `distance-sales`, `cookies`): başlığın hemen altında "Bu metin taslaktır ve hukuki onay bekliyor." ve "Sürüm 1.0". İptal sayfasında üç kademe gri bir blokta ayrı satırlar. KVKK metninde başlığın altında beş bölüm bağlantısı; birine tıklayınca bölüm başlığı üst bilginin altında görünür. Yazdır (Ctrl+P) önizlemesinde üst bilgi, alt bilgi ve bölüm bağlantıları yok, taslak notu var.
+- 404 (B-W15, `/tr/bu-sayfa-yok` veya `/tr/legal/olmayan`): "404", açıklama ve **Ana sayfaya dön**, **Rezervasyonlarım**, **Rezervasyon** bağlantıları; tarayıcı sekmesinde "404 | Getaway Transfers".
 - Veri talebi (B-W10, `/tr/data-request`): "Talep türü" altında üç seçenek görünür ve hiçbiri seçili değildir. Seçmeden **Talebi gönder** → "Talep türünü seçin." ve odak ilk seçeneğe. Bir tür seçip gönderin: düğme "Gönderiliyor…" olur, sonra "Talebiniz alındı. Son tarih: …" ve talep "Taleplerim" listesinde "Açık" rozetiyle görünür; seçim ve not temizlenir. "Verilerimin silinmesi" seçilip gönderilince önce "Silme talebini onaylayın" paneli çıkar (talep henüz gitmez): **Vazgeç** paneli kapatır, **Silme talebini gönder** talebi gönderir. Sonuç mesajı, yeni tür seçince veya nota yazınca kalkar. Talebi olmayan hesapta "Henüz bir talebiniz yok."; backend kapalıyken listede "Sunucuya ulaşılamadı…" + **Tekrar dene** (form yine kullanılabilir).
 - İnternet kesikken ödeme, detay, Rezervasyonlarım, Hesabım sayfaları SMS girişi değil "Sunucuya ulaşılamadı…" ve **Tekrar dene** gösterir; bağlantı gelince **Tekrar dene** ile sayfa açılır ve odak sayfa başlığına gider. Sunucu 15 sn içinde yanıt vermezse aynı hata çıkar.
 - Ödeme sayfası 45 sn içinde açılamazsa önce rezervasyon yeniden okunur: ödenmişse detaya geçilir, değilse "Ödeme sayfası zamanında açılamadı…" + **Tekrar dene**. Onay adımında rezervasyon oluşturma 45 sn içinde yanıt vermezse ödeme düğmesi kapanır ve "…oluşmuş olabilir. Yeniden göndermeden önce Rezervasyonlarım'a bakın." + **Rezervasyonlarım** bağlantısı çıkar.

diff --git a/docs/degisiklik_gunlugu.md b/docs/degisiklik_gunlugu.md
@@ -4,6 +4,8 @@ En yeni üstte. Her değişiklikte ilgili `.md` dosyaları da güncellenir.
 
 ## 2026-11-03
 
+- **B-W11–B-W14 web yasal sayfalar Impeccable geçişi** (tek rota `legal/[slug]`; critique iptal 20/28 → 24/28, KVKK 20/32 → 28/32, mesafeli satış 20/28 → 23/28, çerez 21/28 → 23/28; axe 0 → 0; lint 0): yalnızca tipografi ve düzen. Ortak okuma düzeni: 70ch ölçü, 1.0625rem / 1.65 gövde, başlık + taslak notu + sürüm tek blokta, bölüm başlığı üstü boşluğu, baskıda üst/alt bilgi gizli ve taslak notu kenarlı. İptal sayfasında K-14 kademeleri ayrı liste; KVKK metninde mevcut başlıklardan içindekiler ve bölüm çapaları. Metin anahtarları, metin ve sıra değişmedi; yeni anahtar yok. Yeni `web/e2e/legal.spec.ts` (20 test). Rapor `docs/ui-review/web-legal.md`.
+- **B-W15 web 404 Impeccable geçişi** (critique 22/36 → 30/36, axe 0 → 0): **Rezervasyonlarım** bağlantısı eklendi (Ana sayfaya dön birincil, Rezervasyon korunur); sekme başlığı ana sayfanınki yerine "404 | Getaway Transfers". Yeni `web/e2e/not-found.spec.ts` (7 test). Rapor `docs/ui-review/web-not-found.md`.
 - **B-W10 düzeltme turu 1** (inceleme `task-B-W8-10-review.md`, kontrolcü kararı): veri talebinde "Verilerimin silinmesi" artık satır içi onay ister ("Silme talebini onaylayın", "…Gönderdikten sonra bu ekrandan geri çekemezsiniz.", kırmızı **Silme talebini gönder** ve eşit görünür **Vazgeç**; rezervasyon iptaliyle aynı desen; yasal metin eklenmedi). Yeni tür seçmek veya nota yazmak önceki "Talebiniz alındı." mesajını kaldırır. e2e: `beforeAll` ısınması, `toPass` döngüleri kalktı. Yeniden critique 34/40.
 - **B-W9 düzeltme turu 1** (inceleme `task-B-W8-10-review.md`): Hesabım'da pazarlama onayı kaydedilirken onay kartında görünür ve duyurulan "Kaydediliyor…"; kutu `aria-busy` + `aria-disabled` (odak kutuda kalır), ikinci tıklama kayıt göndermez. Geçersiz e-posta tarayıcı baloncuğu yerine sitenin dilinde alan hatası verir ("E-posta adresini kontrol edin (ör. ad@ornek.com).") ve gönderilmez. e2e: onay POST'ları sayılır (tek tıklama = tek kayıt), `toPass` döngüleri ve `route.fetch()` kalktı, `beforeAll` ısınması. Yeniden critique 34/40.
 - **B-W8 düzeltme turu 1** (inceleme `task-B-W8-10-review.md`): Rezervasyonlarım'da oturumluyken boş kodla **Bul** artık "Rezervasyon kodunu girin." der (önce sessizdi). Biçim hatası yalnızca odak formun dışındaki başka bir alana geçince gösterilir; düğmeye dokunurken (Safari) veya boş alana tıklarken gösterilmez, gönderimde her zaman denetlenir. e2e: ortak `warmUp` (soğuk derleme ısınması), durağan liste taklitleri, `toPass` tıklama döngüleri kaldırıldı. `_log-only.json` geri alındı.

diff --git a/docs/acik_konular.md b/docs/acik_konular.md
@@ -91,6 +91,8 @@ Kodda geçici varsayımla çözüldü. Teyit sonrası güncellenmeli.
 - [ ] Web e2e testleri geliştirme veritabanında kayıt bırakır: her ödeme, detay ve sihirbaz testi kurgusal bir numarayla (ABD 555-01XX, Birleşik Krallık 07700 900xxx; `web/e2e/session.ts`) müşteri hesabı, ödeme bekleyen rezervasyon ve `Payment` kaydı açar; temizlik yok (backend'de silme ucu yok). Bekleyen rezervasyonlar ARQ işçisi çalışıyorsa 30 dk sonra iptal edilir. Geliştirme veritabanı ara ara sıfırlanabilir; üretime karşı e2e çalıştırılmaz (SMS gönderen testler yerel olmayan hedefte atlanır).
 - [ ] Rezervasyonlarım (B-W8'den açık, P3): liste sayfalanmıyor ve sanallaştırılmıyor (API `me/bookings` tüm kayıtları döndürüyor; müşteri başına kayıt sayısı küçük). Kod alanı oturumsuzken isteğe bağlıdır; hatalı kod girişi engellemez, girişten sonra alanda hatasıyla kalır.
 - [x] Hesabım (B-W9'dan açık, P3, düzeltme turu 1'de kapandı): e-posta artık istemcide denetlenir ve alan hatası sitenin dilinde gösterilir (backend'in genel `validation_error` metnine düşülmez).
+- [ ] Yasal sayfalar (B-W11–14'ten açık, P3): mesafeli satış metninde bölüm başlığı yok (etiketler cümle içinde); "son güncelleme" tarihi verisi yok (yalnızca sürüm); metin içi bağlantı (mesafeli satış → iptal politikası, KVKK → veri talep formu) mesaj metni değişmeden eklenemez; iptal metninde `tier3` "%0" değil "iade yapılmaz" der (anlamca K-14 ile aynı). Hepsi hukukçu onaylı metinle birlikte ele alınır.
+- [ ] 404 (B-W15, P3): sekme başlığı React 19 `<title>` ile; `head`'de düzenin başlığı da ikinci sırada kalır (`not-found.tsx` `metadata` Next 15.5'te uygulanmıyor).
 - [ ] Veri talebi (B-W10'dan açık, P3): talep türü seçeneklerinde hakların kısa açıklaması yok (yasal metin uydurulmaz; hukukçu onaylı açıklama gelirse eklenebilir); gönderilmiş talep ekrandan geri çekilemez (backend ucu yok; silme talebi bu yüzden gönderilmeden önce satır içi onay ister, düzeltme turu 1). `AccountPanel` ve `DataRequestPanel` durum bileşenleri (yüzey 1 incelemesinden kalan) B-W9/B-W10'da kapandı. `useSessionExpired()` `RequireLogin` dışında üretimde etkisizdir (geliştirmede uyarır).
 - [ ] Web e2e geliştirme sunucusunda 4 paralel işçiyle `smoke` testi ara sıra `net::ERR_ABORTED` ile düşüyor (sayfa derlenirken); `--workers=1` ile tümü geçiyor.
 

diff --git a/docs/proje_rehberi.md b/docs/proje_rehberi.md
@@ -69,7 +69,7 @@ Tam liste: `kararlar.md` (K-01 ... K-45). Son eklenenler (2026-10-31, 2026-11-02
 | Alan | Durum | Eksik |
 |---|---|---|
 | Backend | Tamamlandı, 94 test geçiyor | PayTR gerçek doğrulama, iyzico yedeği, e-Arşiv, FCM, S3 depolama |
-| Müşteri web | Tamamlandı (4 dil), 2026-10-31 yeni tasarım ve animasyonlar; 2026-11-02 ana sayfa Impeccable geçişi (B-W1, critique 31/36), rezervasyon sihirbazı geçişi (B-W2, critique 35/40), SMS doğrulama geçişi (B-W3, critique 36/40), ödeme ekranı geçişi (B-W4, critique 36/40), ödeme sonucu geçiş ekranı (B-W5, critique 22/24), rezervasyon detayı ve iptal (B-W6, critique 36/40); 2026-11-03 Rezervasyonlarım (B-W8, critique 35/40), Hesabım (B-W9, critique 34/40), veri talebi (B-W10, critique 34/40) | 6 dil daha, günlük kiralama ekranları |
+| Müşteri web | Tamamlandı (4 dil), 2026-10-31 yeni tasarım ve animasyonlar; 2026-11-02 ana sayfa Impeccable geçişi (B-W1, critique 31/36), rezervasyon sihirbazı geçişi (B-W2, critique 35/40), SMS doğrulama geçişi (B-W3, critique 36/40), ödeme ekranı geçişi (B-W4, critique 36/40), ödeme sonucu geçiş ekranı (B-W5, critique 22/24), rezervasyon detayı ve iptal (B-W6, critique 36/40); 2026-11-03 Rezervasyonlarım (B-W8, critique 35/40), Hesabım (B-W9, critique 34/40), veri talebi (B-W10, critique 34/40), yasal sayfalar (B-W11–14, critique 24/28, 28/32, 23/28, 23/28), 404 (B-W15, critique 30/36) | 6 dil daha, günlük kiralama ekranları |
 | Admin | Tamamlandı (23 rota) | Günlük kiralama yönetimi |
 | Mobil müşteri ve sürücü | Tamamlandı, 2026-10-31 Uber tarzı yeni tasarım; web önizlemede uçtan uca denendi | Android Maps anahtarı (kendi derlememiz için) ve iOS harita doğrulaması, 6 dil daha, push, mağaza derlemesi, günlük kiralama |
 | Ön yüz testleri | Altyapı kuruldu (K-40): web/admin Playwright + axe smoke, ESLint; mobil jest-expo + RNTL, ESLint; `scripts/` testleri; `scripts/ui-shots` | Lint taban ihlalleri (web 0, admin 3, mobil 9; `ui-review/lint-taban.md`), ekran bazlı e2e ve axe testleri (arayüz taraması; web ortak dosyalar B-W0, ana sayfa B-W1 ve rezervasyon sihirbazı B-W2 ve SMS doğrulama B-W3 ve ödeme B-W4 ve ödeme sonucu B-W5 ve rezervasyon detayı B-W6 tamamlandı: `web/e2e/shared.spec.ts`, `web/e2e/home.spec.ts`, `web/e2e/book.spec.ts`, `web/e2e/otp.spec.ts`, `web/e2e/pay.spec.ts`, `web/e2e/payment-result.spec.ts`, `web/e2e/booking-detail.spec.ts`) |
